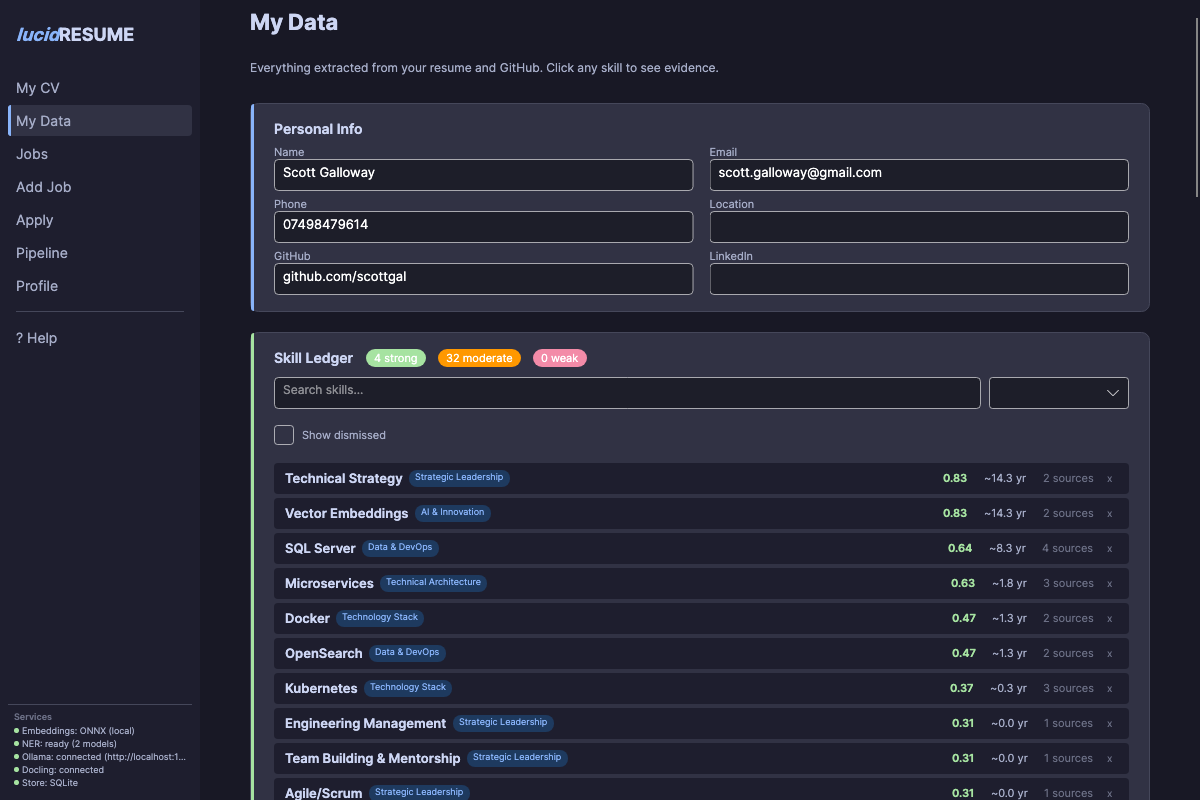
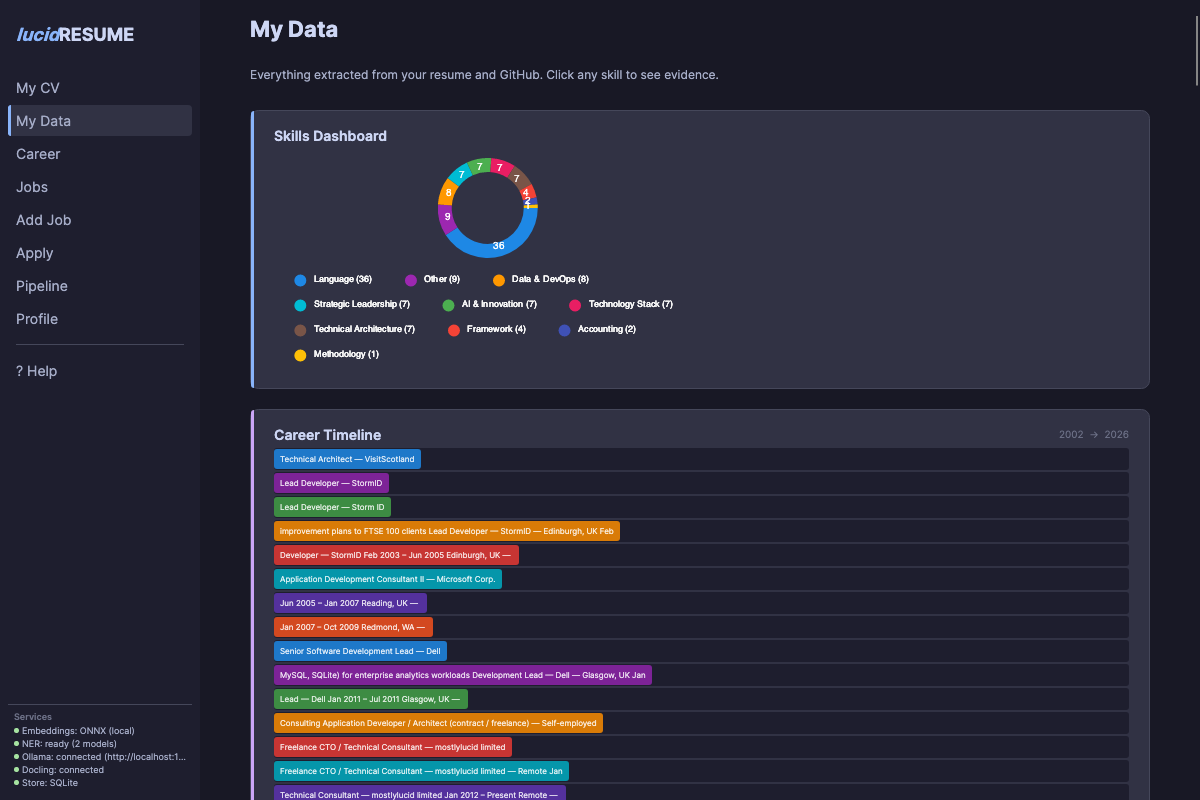
release: v1.1.0 — GitHub importer, My Data dashboard, Career Planner, LinkedIn
Updated dashboard charts with proper colors (category pie, radar, Gantt).
Skills categorised during My Data page load to avoid all-grey pie chart.
Updated README screenshots. Full release notes in docs/release-notes/v1.1.0.md.

diff --git a/src/lucidRESUME/ViewModels/Pages/MyDataPageViewModel.cs b/src/lucidRESUME/ViewModels/Pages/MyDataPageViewModel.cs
@@ -66,7 +66,6 @@ public sealed partial class MyDataPageViewModel : ViewModelBase
 
     // ── Charts ─────────────────────────────────────────────────────────────
     [ObservableProperty] private ISeries[] _categoryPieSeries = [];
-    [ObservableProperty] private ISeries[] _strengthBarSeries = [];
     [ObservableProperty] private ISeries[] _topSkillsRadarSeries = [];
     [ObservableProperty] private PolarAxis[] _topSkillsRadarAxes = [];
 
@@ -116,9 +115,14 @@ public sealed partial class MyDataPageViewModel : ViewModelBase
                 }
             }
 
-            // Build ledger
+            // Build ledger + ensure categories are set
             _ledger = await _ledgerBuilder.BuildAsync(_resume);
             SkillLedgerBuilder.ApplyOverrides(_ledger, _overrides);
+            foreach (var entry in _ledger.Entries.Where(e => string.IsNullOrEmpty(e.Category)))
+                entry.Category = SkillCategoriser.CategoriseSkill(entry.SkillName);
+            // Final fallback: anything still null gets "Other"
+            foreach (var entry in _ledger.Entries.Where(e => string.IsNullOrEmpty(e.Category)))
+                entry.Category = "Other";
 
             // Populate skills
             var allVms = _ledger.Entries.Select(e =>
@@ -241,57 +245,37 @@ public sealed partial class MyDataPageViewModel : ViewModelBase
     private void BuildCharts(List<SkillLedgerEntryVm> skills, IEnumerable<WorkExperience> experience)
     {
         // 1. Category pie chart
-        var catColors = new Dictionary<string, SKColor>(StringComparer.OrdinalIgnoreCase)
+        var catColorList = new SKColor[]
         {
-            ["Language"] = new(30, 136, 229),
-            ["Framework"] = new(156, 39, 176),
-            ["Cloud & DevOps"] = new(255, 152, 0),
-            ["Database"] = new(0, 188, 212),
-            ["Tool"] = new(76, 175, 80),
-            ["AI/ML"] = new(233, 30, 99),
-            ["Methodology"] = new(121, 85, 72),
-            ["Security"] = new(244, 67, 54),
+            new(30, 136, 229),   // blue
+            new(156, 39, 176),   // purple
+            new(255, 152, 0),    // orange
+            new(0, 188, 212),    // cyan
+            new(76, 175, 80),    // green
+            new(233, 30, 99),    // pink
+            new(121, 85, 72),    // brown
+            new(244, 67, 54),    // red
+            new(63, 81, 181),    // indigo
+            new(255, 193, 7),    // amber
         };
 
-        CategoryPieSeries = skills
+        var groups = skills
             .GroupBy(s => s.Category ?? "Other")
-            .Where(g => g.Count() >= 1)
             .OrderByDescending(g => g.Count())
-            .Select(g =>
-            {
-                var color = catColors.GetValueOrDefault(g.Key, new SKColor(158, 158, 158));
-                return (ISeries)new PieSeries<int>
-                {
-                    Values = [g.Count()],
-                    Name = g.Key,
-                    Fill = new SolidColorPaint(color),
-                    InnerRadius = 40,
-                };
-            })
-            .ToArray();
+            .ToList();
 
-        // 2. Strength distribution
-        StrengthBarSeries =
-        [
-            new StackedRowSeries<int>
+        CategoryPieSeries = groups.Select((g, i) =>
+            (ISeries)new PieSeries<double>
             {
-                Values = [StrongCount],
-                Name = "Strong",
-                Fill = new SolidColorPaint(new SKColor(76, 175, 80)),
-            },
-            new StackedRowSeries<int>
-            {
-                Values = [ModerateCount],
-                Name = "Moderate",
-                Fill = new SolidColorPaint(new SKColor(255, 152, 0)),
-            },
-            new StackedRowSeries<int>
-            {
-                Values = [WeakCount],
-                Name = "Weak",
-                Fill = new SolidColorPaint(new SKColor(244, 67, 54)),
-            },
-        ];
+                Values = new double[] { g.Count() },
+                Name = $"{g.Key} ({g.Count()})",
+                Fill = new SolidColorPaint(catColorList[i % catColorList.Length]),
+                InnerRadius = 50,
+                DataLabelsSize = 10,
+                DataLabelsPaint = new SolidColorPaint(SKColors.White),
+            }).ToArray();
+
+        // 2. Strength distribution — skip, shown in badges already
 
         // 3. Top skills radar
         var topSkills = skills.OrderByDescending(s => s.Strength).Take(8).ToList();
@@ -303,9 +287,11 @@ public sealed partial class MyDataPageViewModel : ViewModelBase
                 {
                     Values = topSkills.Select(s => s.Strength).ToArray(),
                     Name = "Strength",
-                    Fill = new SolidColorPaint(new SKColor(30, 136, 229, 60)),
-                    Stroke = new SolidColorPaint(new SKColor(30, 136, 229), 2),
-                    GeometrySize = 6,
+                    Fill = new SolidColorPaint(new SKColor(30, 136, 229, 80)),
+                    Stroke = new SolidColorPaint(new SKColor(100, 180, 255), 2),
+                    GeometryFill = new SolidColorPaint(new SKColor(100, 180, 255)),
+                    GeometryStroke = new SolidColorPaint(new SKColor(30, 136, 229), 2),
+                    GeometrySize = 8,
                     LineSmoothness = 0,
                     IsClosed = true,
                 }
@@ -314,6 +300,7 @@ public sealed partial class MyDataPageViewModel : ViewModelBase
             {
                 Name = s.SkillName,
                 NameTextSize = 10,
+                NamePaint = new SolidColorPaint(new SKColor(200, 200, 200)),
                 MinLimit = 0,
                 MaxLimit = 1,
             }).ToArray();

diff --git a/docs/release-notes/v1.1.0.md b/docs/release-notes/v1.1.0.md
@@ -1,0 +1,90 @@
+# v1.1.0 Release Notes
+
+## GitHub Skills Importer
+
+Import skills directly from your GitHub profile:
+
+- **Languages**: weighted by bytes across all repos
+- **Topics**: from repo metadata
+- **README parsing**: [lucidRAG](https://github.com/scottgal/lucidrag) DocSummarizer (BERT mode, no LLM needed) extracts technologies from README content
+- **Per-project profiles**: each repo gets a structured profile with technologies, skills, time range, and evidence strength
+- **Rate limit enforcement**: graceful degradation with partial results
+- **PAT auth**: 5000 req/hr + private repos via user secrets
+- CLI: `lucidresume github-import --username scottgal`
+- GUI: GitHub Import card on Profile page
+
+## LinkedIn Data Export Import
+
+Drop your LinkedIn ZIP archive and it auto-imports:
+
+- Positions with achievements, technologies
+- Skills with endorsement counts
+- Education, projects, contact info
+- Auto-detected from ZIP contents (no manual format selection)
+
+## Drag-and-Drop File Import
+
+Drop any file on the main window:
+- `.pdf`, `.docx`, `.txt` → resume parser
+- `.zip` → LinkedIn detector (auto-routes)
+
+## My Data Page
+
+New dashboard between "My CV" and "Jobs" showing all extracted data:
+
+- **Skills Dashboard**: category pie chart (LiveCharts2), top skills radar, strength tier badges
+- **Career Timeline**: Gantt-style colored bars per role
+- **Skill Ledger**: category filter, search, expand for evidence drill-down (source, company, dates, confidence)
+- **Corrections**: dismiss skills/evidence, add manual skills, rename — stored in UserOverrides
+- **Experience**: deduplicated across imports with variant storage for user review
+- **Projects**: from GitHub import
+- **Consistency Issues**: unsubstantiated skill warnings
+
+## Career Planner Page
+
+New "Career" page with gap analysis against a selected job:
+
+- **Quick Wins** (low effort): presentation gaps, weak evidence — just update wording
+- **Side Projects** (medium effort): adjacent skills in same Leiden community
+- **New Learning** (high effort): true gaps requiring dedicated study
+- Fit/coverage/actions-to-good-fit badges
+
+## DOCX Preview via Morph
+
+Cross-platform DOCX-to-image rendering powered by [Morph](https://github.com/SimonCropp/Morph):
+- Pure C#, SkiaSharp, no LibreOffice needed
+- Preview fallback: Docling → Morph → LibreOffice → no preview
+
+## DOCX + PDF Export
+
+- **DOCX**: professionally formatted via DocumentFormat.OpenXml
+- **PDF**: [QuestPDF](https://www.questpdf.com/) with styled headings, experience sections, skill groups
+- CLI: `lucidresume export --format docx|pdf --output resume.docx`
+
+## Leiden Community Detection
+
+Upgraded from Louvain to Leiden with refinement phase — produces higher-quality, more stable skill clusters.
+
+## Resume Extraction RRF Fusion
+
+Entities detected by multiple extractors (Pattern + NER + LLM) now get confidence-boosted via reciprocal rank fusion, matching the JD field fuser pattern.
+
+## Temporal Skill Drift
+
+`SkillDriftAnalyser.Compare()` detects skills added, dropped, strengthened, or weakened across resume variants.
+
+## Experience Deduplication
+
+Cross-import deduplication matches by company name similarity + date overlap:
+- Merges technologies and unique achievements
+- Strips company suffixes (Ltd, Inc, Corp, etc.) for fuzzy matching
+- Stores both variants for user review when there's a conflict
+
+## Other Improvements
+
+- LiveCharts2 dashboard visualizations (category pie, radar, Gantt)
+- UX testing: scroll supports percentage, pixel, and page offsets
+- CI: submodule checkout for lucidRAG
+- Release workflow: GitHub release on both tag push and manual dispatch
+- Pre-converted resume NER model on HuggingFace (no Python needed)
+- User-focused README with download instructions
